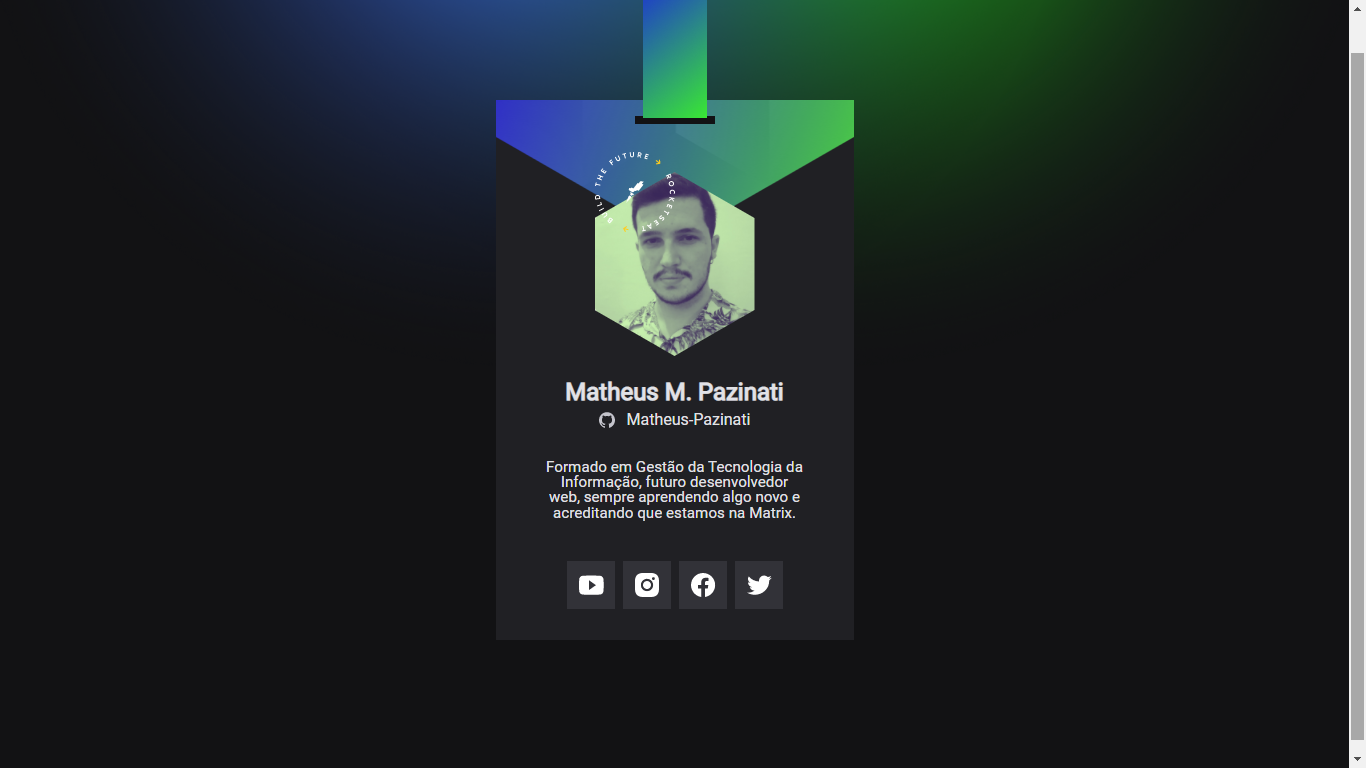
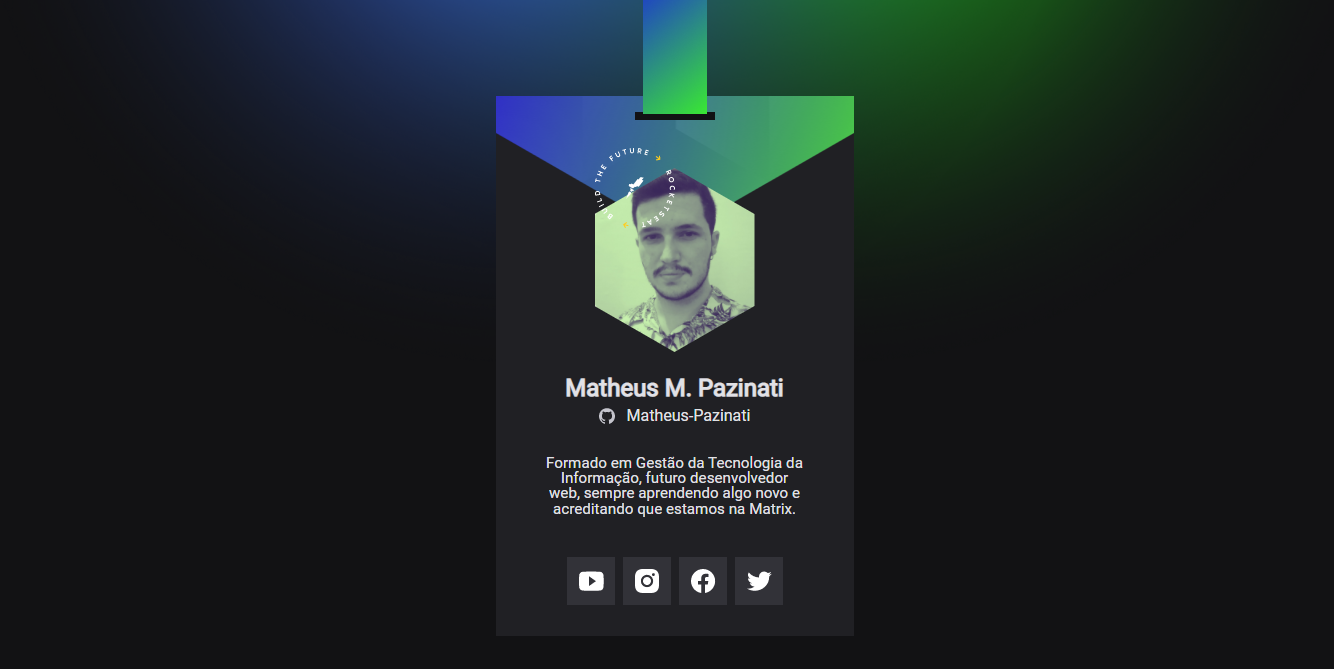
Atualiza README

Changed region(s): [[0.3381, 0.0, 0.6454, 0.7773], [0.9835, 0.0, 1.0, 1.0], [0.3996, 0.8072, 0.584, 0.9268]]

diff --git a/README.md b/README.md
@@ -1,6 +1,6 @@
 <h1 align="center">Crachá DoWhile 2021 </h1>
 <p align="center">
-  <img src=".github/badge-nlw.png">
+  <img src=".github/badge-nlw.png" width="80%">
 </p>
 <br>
 <h2>💻 Sobre </h2>
